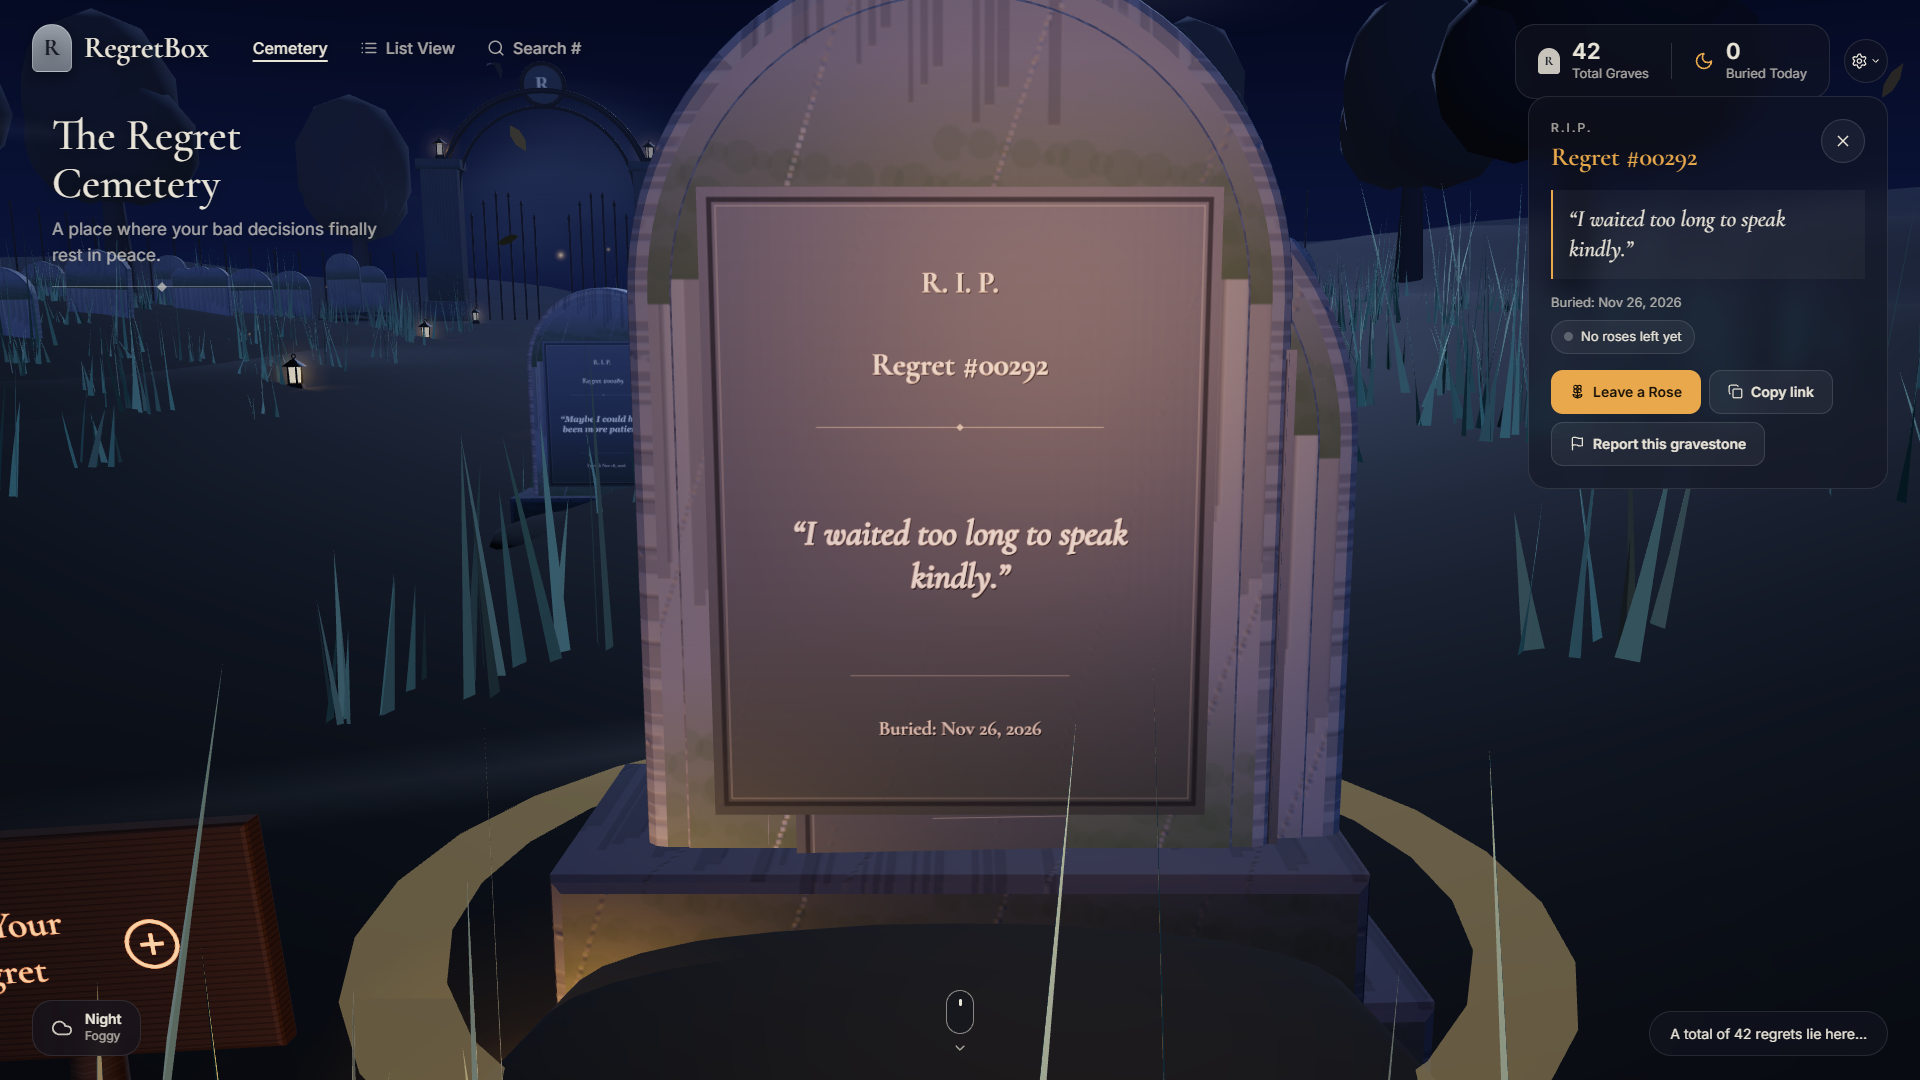
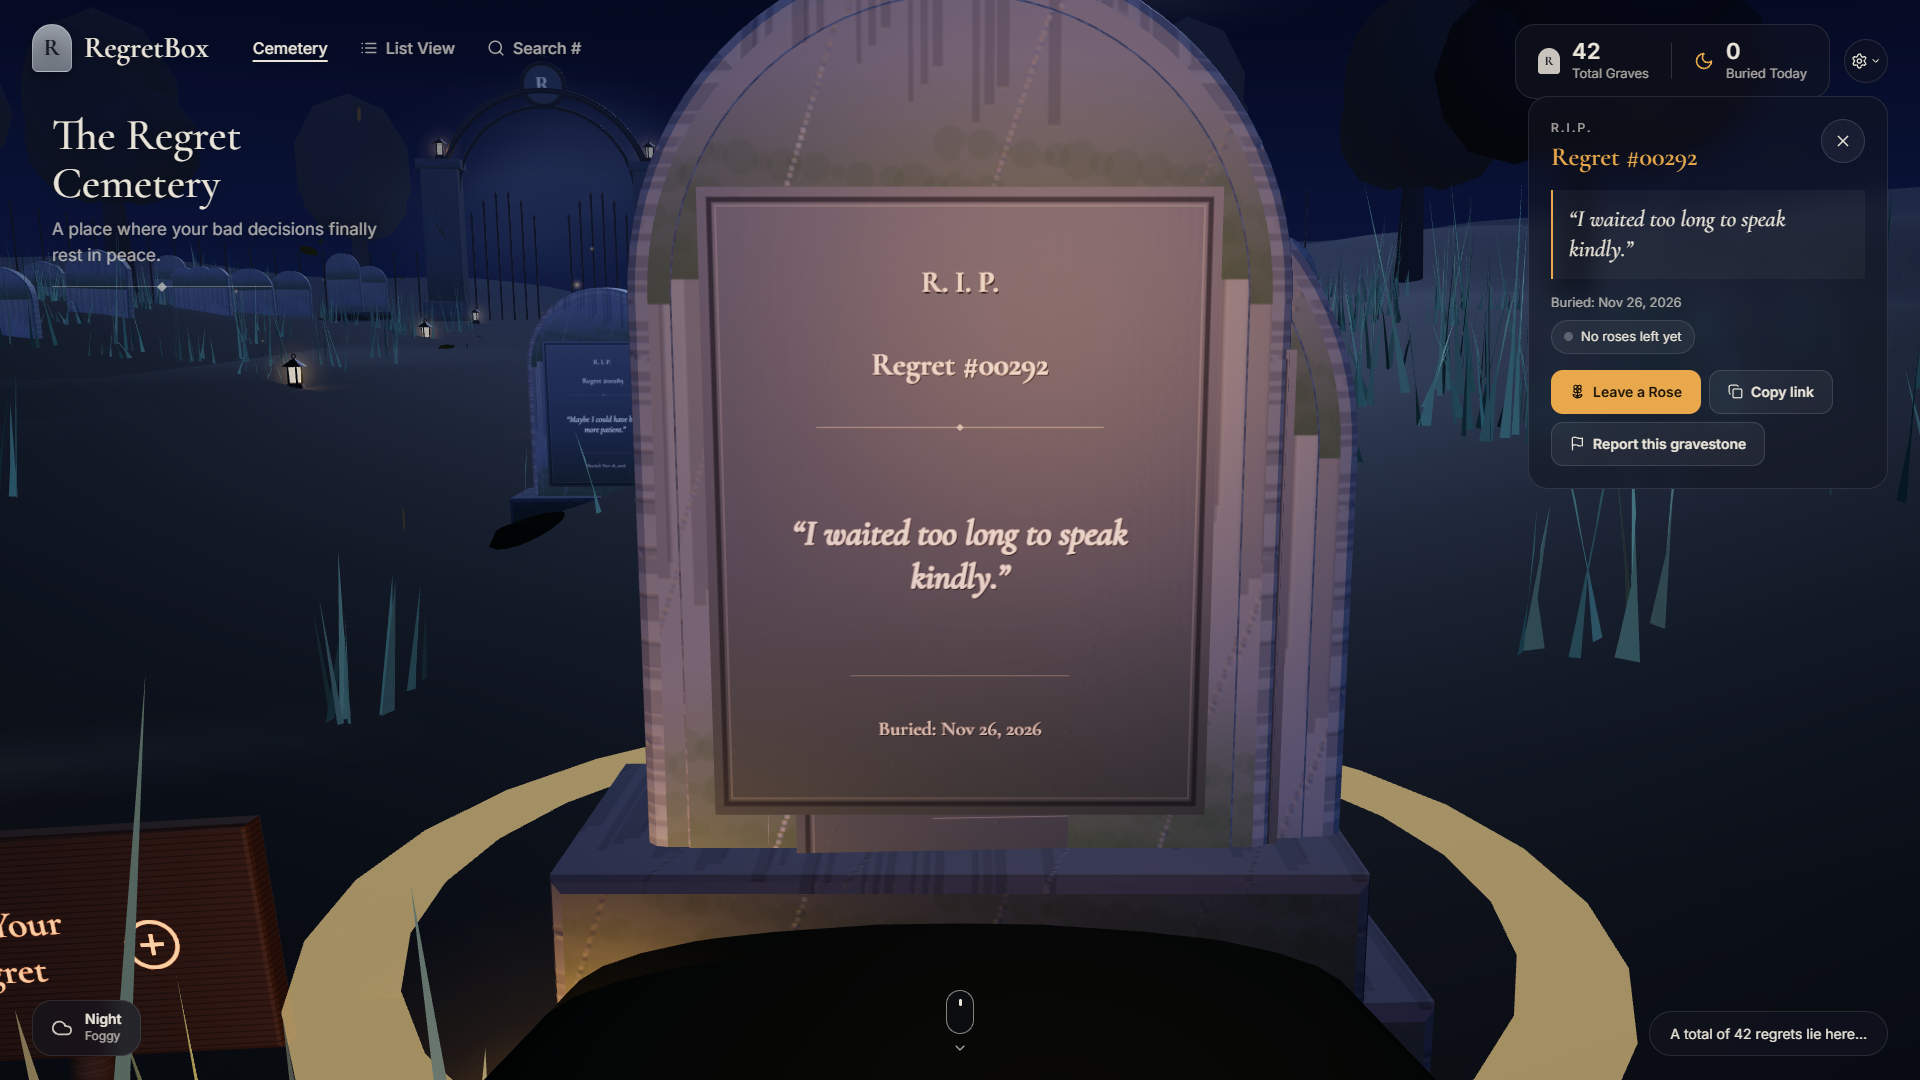
perf: optimize mobile GPU/CPU load (lightweight preset, Lambert foliage, reduced plaques/lights, no mobile blur)

diff --git a/src/three/GraveManager.ts b/src/three/GraveManager.ts
@@ -3,6 +3,7 @@ import { mergeGeometries } from 'three/examples/jsm/utils/BufferGeometryUtils.js
 import type { Grave, GraveStyle } from '../types/grave';
 import type { AssetLoader } from './AssetLoader';
 import { InscriptionTextureCache } from './InscriptionTexture';
+import type { QualityTier } from './PerformanceManager';
 import { getTerrainHeight } from './terrain';
 import { createTombstoneGeometries, type TombstoneGeometries } from './Tombstone';
 
@@ -78,10 +79,11 @@ export class GraveManager {
   private roseGeos: { stemGeo: THREE.BufferGeometry; bloomGeo: THREE.BufferGeometry };
   private stoneMat: THREE.MeshStandardMaterial;
   private plinthMat: THREE.MeshStandardMaterial;
-  private moundMat: THREE.MeshStandardMaterial;
-  private roseStemMat: THREE.MeshStandardMaterial;
+  private moundMat: THREE.MeshLambertMaterial;
+  private roseStemMat: THREE.MeshLambertMaterial;
   private roseBloomMat: THREE.MeshStandardMaterial;
   private plaqueCache: InscriptionTextureCache;
+  private tier: QualityTier = 'high';
   private selectedGraveId: string | null = null;
   private animatingGraveId: string | null = null;
   private highlightRing: THREE.Mesh;
@@ -98,9 +100,8 @@ export class GraveManager {
     this.roseGeos = createRoseGeometries();
     this.plaqueCache = new InscriptionTextureCache(renderer);
 
-    this.roseStemMat = new THREE.MeshStandardMaterial({
+    this.roseStemMat = new THREE.MeshLambertMaterial({
       color: 0x2d4e31,
-      roughness: 0.78,
       side: THREE.DoubleSide,
     });
     this.roseBloomMat = new THREE.MeshStandardMaterial({
@@ -137,9 +138,8 @@ export class GraveManager {
       roughness: 0.9,
     });
 
-    this.moundMat = new THREE.MeshStandardMaterial({
+    this.moundMat = new THREE.MeshLambertMaterial({
       color: 0x1e241c,
-      roughness: 0.96,
     });
 
     this.highlightRing = new THREE.Mesh(
@@ -366,7 +366,13 @@ export class GraveManager {
     this.rebuildRoses();
   }
 
+  public setTier(tier: QualityTier): void {
+    this.tier = tier;
+  }
+
   public updateNearbyPlaques(cameraPos: THREE.Vector3): void {
+    const maxPlaques =
+      this.tier === 'low' ? 8 : this.tier === 'medium' ? 12 : this.plaquePool.length;
     const sorted = this.graves
       .filter((g) => g.id !== this.animatingGraveId)
       .map((g) => {
@@ -376,7 +382,7 @@ export class GraveManager {
       })
       .filter((entry) => entry.distSq <= 26 * 26 || entry.grave.id === this.selectedGraveId)
       .sort((a, b) => a.distSq - b.distSq)
-      .slice(0, this.plaquePool.length);
+      .slice(0, maxPlaques);
 
     this.plaquePool.forEach((slot, idx) => {
       const entry = sorted[idx];
@@ -388,7 +394,14 @@ export class GraveManager {
       const g = entry.grave;
       const isSelected = g.id === this.selectedGraveId;
       const isForeground = g.slot_index >= 38;
-      const resolution = isSelected || isForeground ? 1024 : 512;
+      const resolution =
+        this.tier === 'low'
+          ? isSelected || isForeground
+            ? 512
+            : 256
+          : isSelected || isForeground
+            ? 1024
+            : 512;
       const colorMap = this.plaqueCache.get(g, resolution);
 
       if (slot.mat.map !== colorMap) {

diff --git a/src/three/Environment.ts b/src/three/Environment.ts
@@ -67,7 +67,7 @@ function buildBareTreeBranchGroup(material: THREE.Material): THREE.Group {
 }
 
 export class Environment {
-  public grassMaterial: THREE.MeshStandardMaterial | null = null;
+  public grassMaterial: THREE.MeshLambertMaterial | null = null;
   public doorHitMesh!: THREE.Mesh;
   private grassUniforms = { uTime: { value: 0 } };
   private fgTree: THREE.Group | null = null;
@@ -412,7 +412,7 @@ export class Environment {
     scene.add(fgTree);
     this.fgTree = fgTree;
 
-    const foliageMat = new THREE.MeshStandardMaterial({ color: 0x162230, roughness: 0.94 });
+    const foliageMat = new THREE.MeshLambertMaterial({ color: 0x162230 });
     foliageMat.onBeforeCompile = (shader) => {
       shader.uniforms.uTime = this.grassUniforms.uTime;
       shader.vertexShader = `uniform float uTime;\n${shader.vertexShader}`.replace(
@@ -472,11 +472,10 @@ export class Environment {
     bladeShape.lineTo(0.007, 0.31);
     bladeShape.lineTo(0.0, 0.44);
     bladeShape.closePath();
-    const bladeGeo = new THREE.ShapeGeometry(bladeShape, 2);
+    const bladeGeo = new THREE.ShapeGeometry(bladeShape, 1);
 
-    const grassMat = new THREE.MeshStandardMaterial({
+    const grassMat = new THREE.MeshLambertMaterial({
       color: 0xffffff,
-      roughness: 0.84,
       side: THREE.DoubleSide,
     });
     grassMat.onBeforeCompile = (shader) => {
@@ -497,7 +496,7 @@ export class Environment {
     };
     this.grassMaterial = grassMat;
 
-    const grassCount = tier === 'high' ? 4800 : tier === 'medium' ? 2600 : 1000;
+    const grassCount = tier === 'high' ? 3800 : tier === 'medium' ? 1800 : 950;
     const grassMesh = new THREE.InstancedMesh(bladeGeo, grassMat, grassCount);
     const dummy = new THREE.Object3D();
     const tint = new THREE.Color();
@@ -567,10 +566,10 @@ export class Environment {
     const floretGeo = new THREE.SphereGeometry(0.036, 5, 4);
     const leafClusterGeo = new THREE.SphereGeometry(0.14, 6, 4);
     leafClusterGeo.scale(1.4, 0.55, 1.3);
-    const foliageLeafMat = new THREE.MeshStandardMaterial({ color: 0x203827, roughness: 0.88 });
-    const violetMat = new THREE.MeshStandardMaterial({ color: '#7866C7', roughness: 0.75 });
-    const blueMat = new THREE.MeshStandardMaterial({ color: '#587BE0', roughness: 0.75 });
-    const whiteMat = new THREE.MeshStandardMaterial({ color: '#F6F3EB', roughness: 0.65 });
+    const foliageLeafMat = new THREE.MeshLambertMaterial({ color: 0x203827 });
+    const violetMat = new THREE.MeshLambertMaterial({ color: '#7866C7' });
+    const blueMat = new THREE.MeshLambertMaterial({ color: '#587BE0' });
+    const whiteMat = new THREE.MeshLambertMaterial({ color: '#F6F3EB' });
 
     const hydrangeaSpots: Array<[number, number]> = [
       [-2.75, 3.6], [-3.15, 3.0], [-2.35, 3.9], [-3.55, 2.5],

diff --git a/src/three/Atmosphere.ts b/src/three/Atmosphere.ts
@@ -156,12 +156,10 @@ export class Atmosphere {
     leafShape.quadraticCurveTo(-0.058, -0.02, 0, -0.09);
     const leafGeo = new THREE.ShapeGeometry(leafShape, 2);
 
-    const leafMat = new THREE.MeshStandardMaterial({
+    const leafMat = new THREE.MeshLambertMaterial({
       color: 0xffffff,
       emissive: new THREE.Color('#1a2218'),
       emissiveIntensity: 0.45,
-      roughness: 0.72,
-      metalness: 0.04,
       side: THREE.DoubleSide,
     });
 
@@ -274,10 +272,8 @@ export class Atmosphere {
     batGeo.setAttribute('aWingPhase', new THREE.InstancedBufferAttribute(wingPhases, 1));
     batGeo.setAttribute('aWingSpeed', new THREE.InstancedBufferAttribute(wingSpeeds, 1));
 
-    const batMat = new THREE.MeshStandardMaterial({
+    const batMat = new THREE.MeshBasicMaterial({
       color: 0x0e1320,
-      emissive: new THREE.Color('#070b16'),
-      roughness: 0.85,
       side: THREE.DoubleSide,
     });
     batMat.onBeforeCompile = (shader) => {
@@ -307,10 +303,10 @@ export class Atmosphere {
   }
 
   private applyBudgets(tier: QualityTier, reducedMotion: boolean): void {
-    const fireflyCount = tier === 'high' ? MAX_FIREFLIES : tier === 'medium' ? 32 : 12;
-    const leafCount = tier === 'high' ? MAX_LEAVES : tier === 'medium' ? 72 : 30;
+    const fireflyCount = tier === 'high' ? MAX_FIREFLIES : tier === 'medium' ? 32 : 16;
+    const leafCount = tier === 'high' ? MAX_LEAVES : tier === 'medium' ? 72 : 36;
     const wispCount = tier === 'high' ? MAX_WISPS : tier === 'medium' ? 8 : 4;
-    const batCount = tier === 'high' ? MAX_BATS : tier === 'medium' ? 10 : 5;
+    const batCount = tier === 'high' ? MAX_BATS : tier === 'medium' ? 10 : 6;
 
     this.fireflies.geometry.setDrawRange(0, fireflyCount);
     this.fireflies.visible = !reducedMotion;

diff --git a/src/three/PerformanceManager.ts b/src/three/PerformanceManager.ts
@@ -16,9 +16,7 @@ export function detectWebGLSupport(): boolean {
 
 export function detectInitialTier(): QualityTier {
   const isMobile = /Android|iPhone|iPad|iPod/i.test(navigator.userAgent) || window.innerWidth < 768;
-  const cores = navigator.hardwareConcurrency || 4;
-  if (isMobile && cores <= 4) return 'low';
-  if (isMobile) return 'medium';
+  if (isMobile) return 'low';
   return 'high';
 }
 
@@ -53,20 +51,20 @@ export class PerformanceManager {
     this.frameTimes = [];
     this.sampleStart = now;
 
-    if (this.activeTier === 'high' && avg > 34) {
+    if (this.activeTier === 'high' && avg > 30) {
       this.activeTier = 'medium';
       this.onTierDowngrade?.('medium');
-    } else if (this.activeTier === 'medium' && avg > 48) {
+    } else if (this.activeTier === 'medium' && avg > 40) {
       this.activeTier = 'low';
       this.onTierDowngrade?.('low');
     }
   }
 
   public getMaxPixelRatio(): number {
-    const isMobile = window.innerWidth < 768;
+    const isMobile = /Android|iPhone|iPad|iPod/i.test(navigator.userAgent) || window.innerWidth < 768;
     if (this.activeTier === 'low') return 1;
-    if (this.activeTier === 'medium') return Math.min(window.devicePixelRatio || 1, 1.25);
-    return Math.min(window.devicePixelRatio || 1, isMobile ? 1.25 : 1.5);
+    if (this.activeTier === 'medium') return Math.min(window.devicePixelRatio || 1, isMobile ? 1.05 : 1.25);
+    return Math.min(window.devicePixelRatio || 1, isMobile ? 1.15 : 1.5);
   }
 }
 

diff --git a/src/three/CemeteryScene.ts b/src/three/CemeteryScene.ts
@@ -63,9 +63,10 @@ export class CemeteryScene {
     const w = Math.max(container.clientWidth, 320);
     const h = Math.max(container.clientHeight, 320);
 
+    const isMobile = /Android|iPhone|iPad|iPod/i.test(navigator.userAgent) || w < 768;
     this.camera = new THREE.PerspectiveCamera(46, w / h, 0.2, 360);
     this.renderer = new THREE.WebGLRenderer({
-      antialias: true,
+      antialias: !isMobile && this.perf.activeTier !== 'low',
       powerPreference: 'high-performance',
     });
     this.renderer.domElement.id = 'scene';
@@ -102,6 +103,7 @@ export class CemeteryScene {
     this.signBoard.setPositionRelativeToHero(heroGrave?.pos_x ?? -0.75, heroGrave?.pos_z ?? 1.65);
 
     this.graveMgr = new GraveManager(this.scene, this.renderer, this.assets);
+    this.graveMgr.setTier(tier);
     this.graveMgr.setGraves(initialGraves);
 
     this.cameraCtrl = new CameraController(this.camera);
@@ -171,6 +173,7 @@ export class CemeteryScene {
     this.renderer.setPixelRatio(this.perf.getMaxPixelRatio());
     this.renderer.shadowMap.enabled = tier !== 'low';
     this.lighting.setTier(tier);
+    this.graveMgr.setTier(tier);
     this.atmosphere.setTier(tier, reduced);
     this.postFx.rebuild(tier);
   }

diff --git a/src/three/Lanterns.ts b/src/three/Lanterns.ts
@@ -156,7 +156,7 @@ export class Lanterns {
             map: assets.glowMap,
             color: 0xffa84c,
             transparent: true,
-            opacity: 0.16,
+            opacity: tier === 'low' ? 0.22 : 0.16,
             blending: THREE.AdditiveBlending,
             depthWrite: false,
           }),
@@ -167,7 +167,8 @@ export class Lanterns {
       }
 
       let light: THREE.PointLight | null = null;
-      if (pos.hasLight && tier !== 'low') {
+      const maxLights = tier === 'high' ? 5 : tier === 'medium' ? 2 : 0;
+      if (pos.hasLight && idx < maxLights) {
         light = new THREE.PointLight('#FFB45A', 1.55, 7.2, 2);
         light.position.set(pos.x, pos.y + 0.38 * s, pos.z);
         this.group.add(light);

diff --git a/src/styles/index.css b/src/styles/index.css
@@ -709,6 +709,12 @@ canvas#scene {
 }
 
 @media (max-width: 767px) {
+  .glass-card,
+  .glass-pill {
+    backdrop-filter: none;
+    -webkit-backdrop-filter: none;
+    background: rgba(14, 17, 30, 0.84);
+  }
   .grave-detail-panel {
     top: auto;
     left: 0;

diff --git a/src/three/PostFX.ts b/src/three/PostFX.ts
@@ -33,7 +33,7 @@ export class PostFX {
 
     if (tier === 'low') {
       this.renderer.toneMapping = THREE.ACESFilmicToneMapping;
-      this.renderer.toneMappingExposure = 1.24;
+      this.renderer.toneMappingExposure = 1.28;
       return;
     }
 
